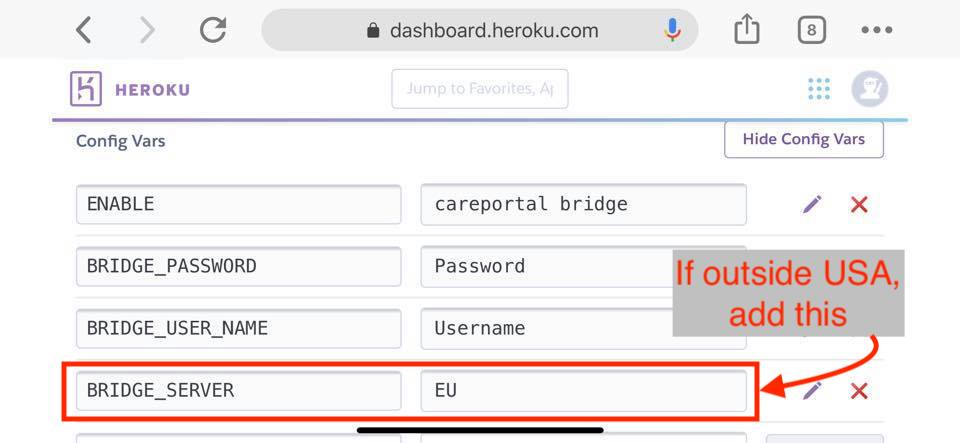
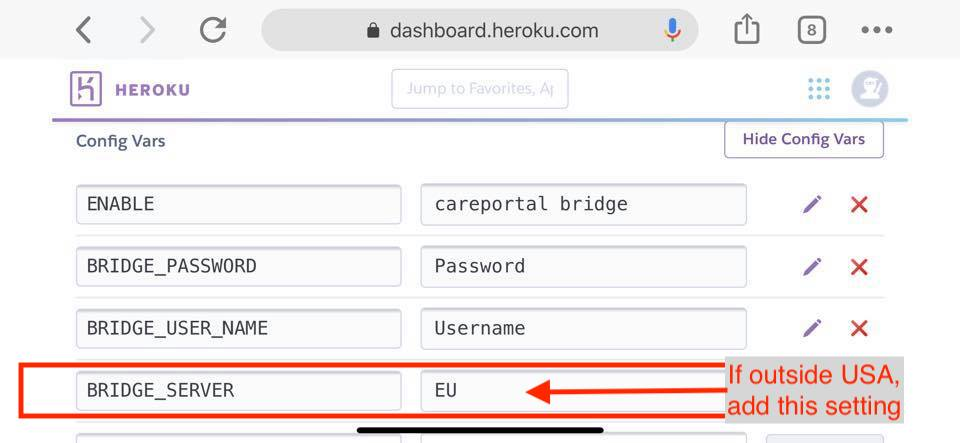
add config vars screenshot

Changed region(s): [[0.0, 0.5576, 0.9688, 0.9684]]

diff --git a/docs/nightscout/troublehoot.md b/docs/nightscout/troublehoot.md
@@ -10,10 +10,16 @@ NOTE: The #1 reason why BGs aren't showing is because you have mismatched passwo
 
 ### Heroku Settings
 
-From within Heroku settings, under `Config Vars` double check the following:
+Login to your Heroku account and from within Heroku settings, click on the  `Reveal Config Vars`
+
+<p align="center">
+<img src="../img/config-vars.png" width="800">
+</p> 
+
+Now from the `Config Vars` area, check the following:
 
 1. You must use the same `BRIDGE_PASSWORD` or `BRIDGE_USER_NAME` that your Dexcom mobile app is using.
-2. You must have `bridge` and/or `careportal` on the ENABLE line in Heroku settings (you can have other values there...but don't forget these two).
+2. You must have `bridge` and `careportal` on the ENABLE line in Heroku Settings >> Config Vars area (you can have other values there...but don't forget these two).
 3. If you are outside the USA, you must add `BRIDGE_SERVER` set to `EU` in Heroku settings.
 4. Your `careportal` must be one word in the ENABLE line, sometimes autocorrect makes it two words.
 5. If using `mmol`, make sure you have spelled that value correctly in the `DISPLAY_UNITS`.
